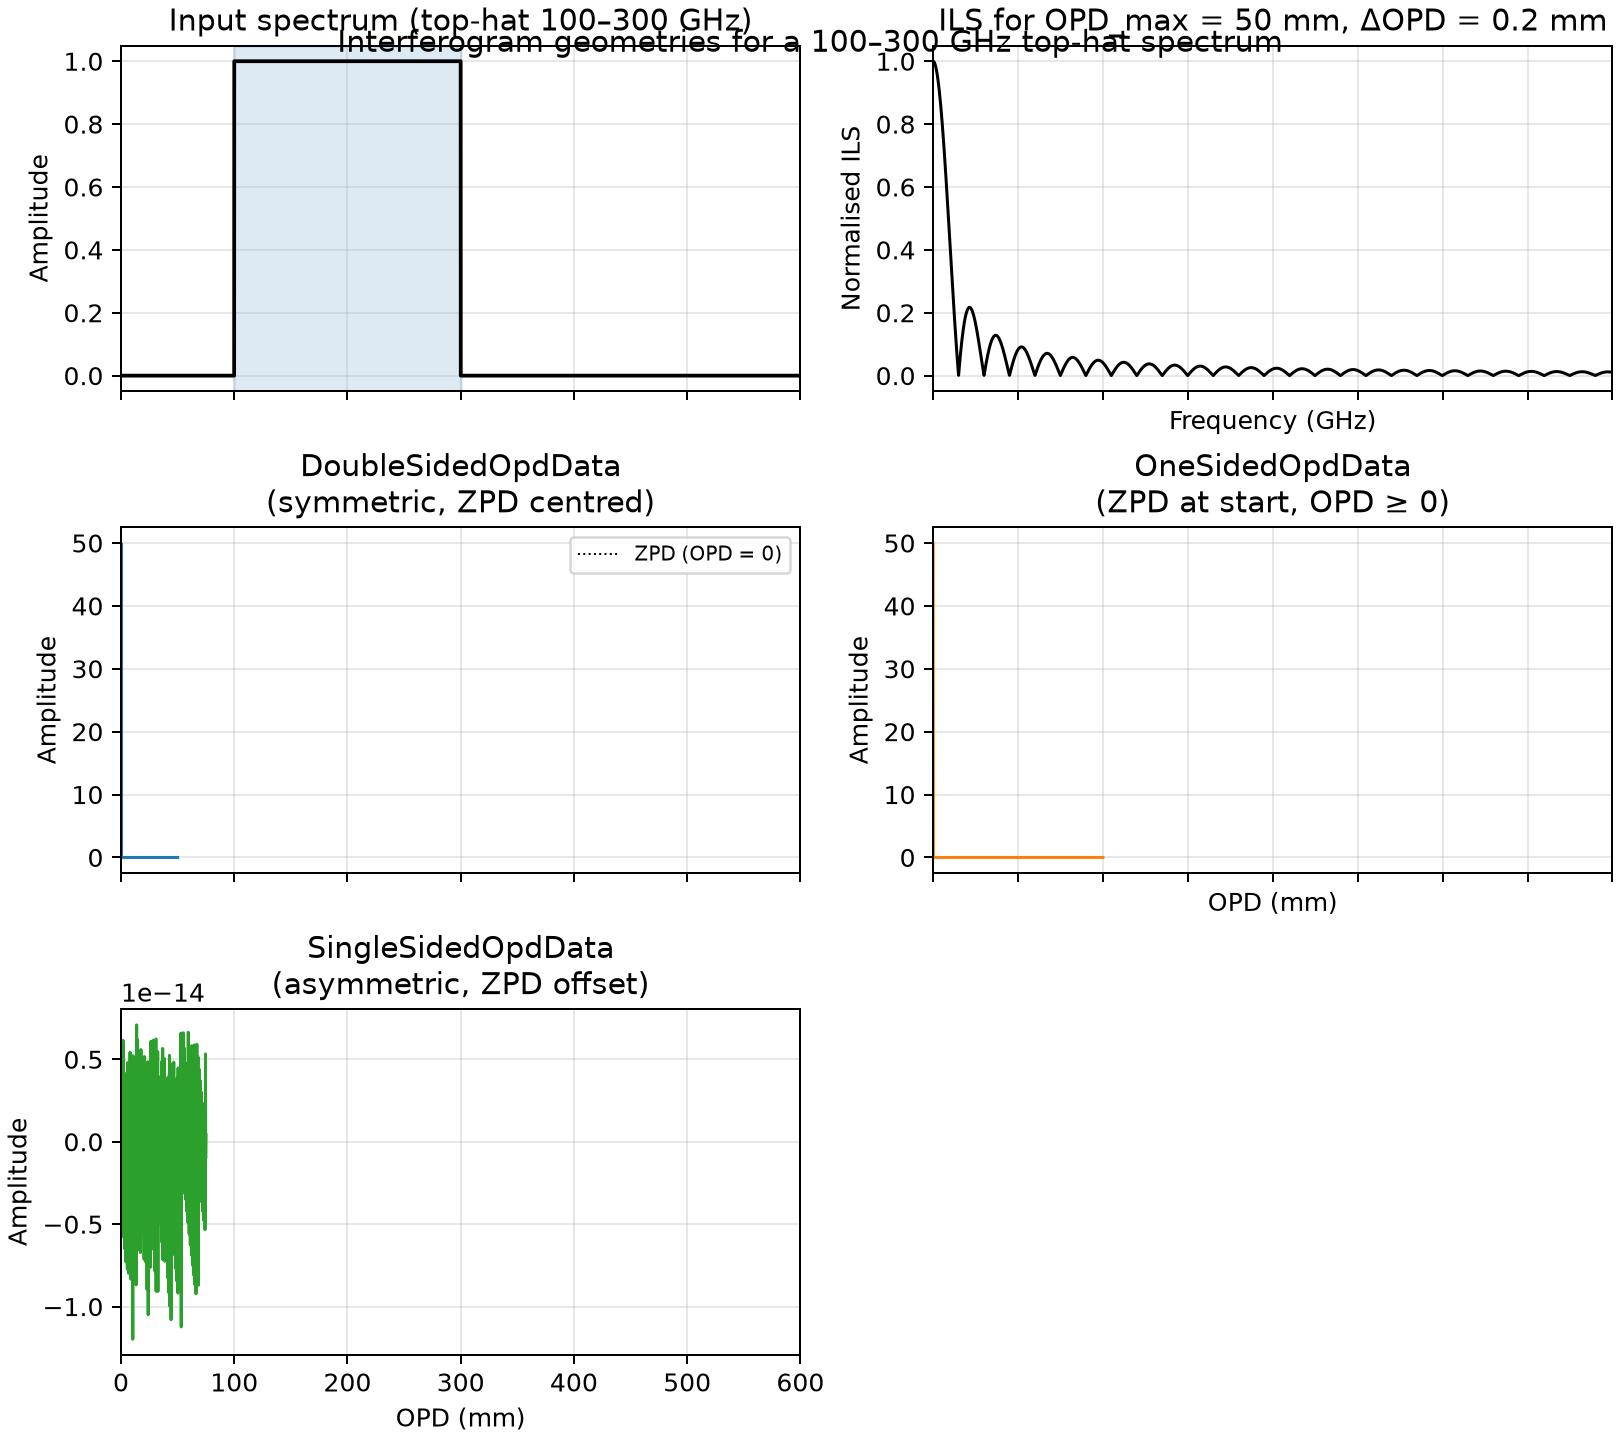
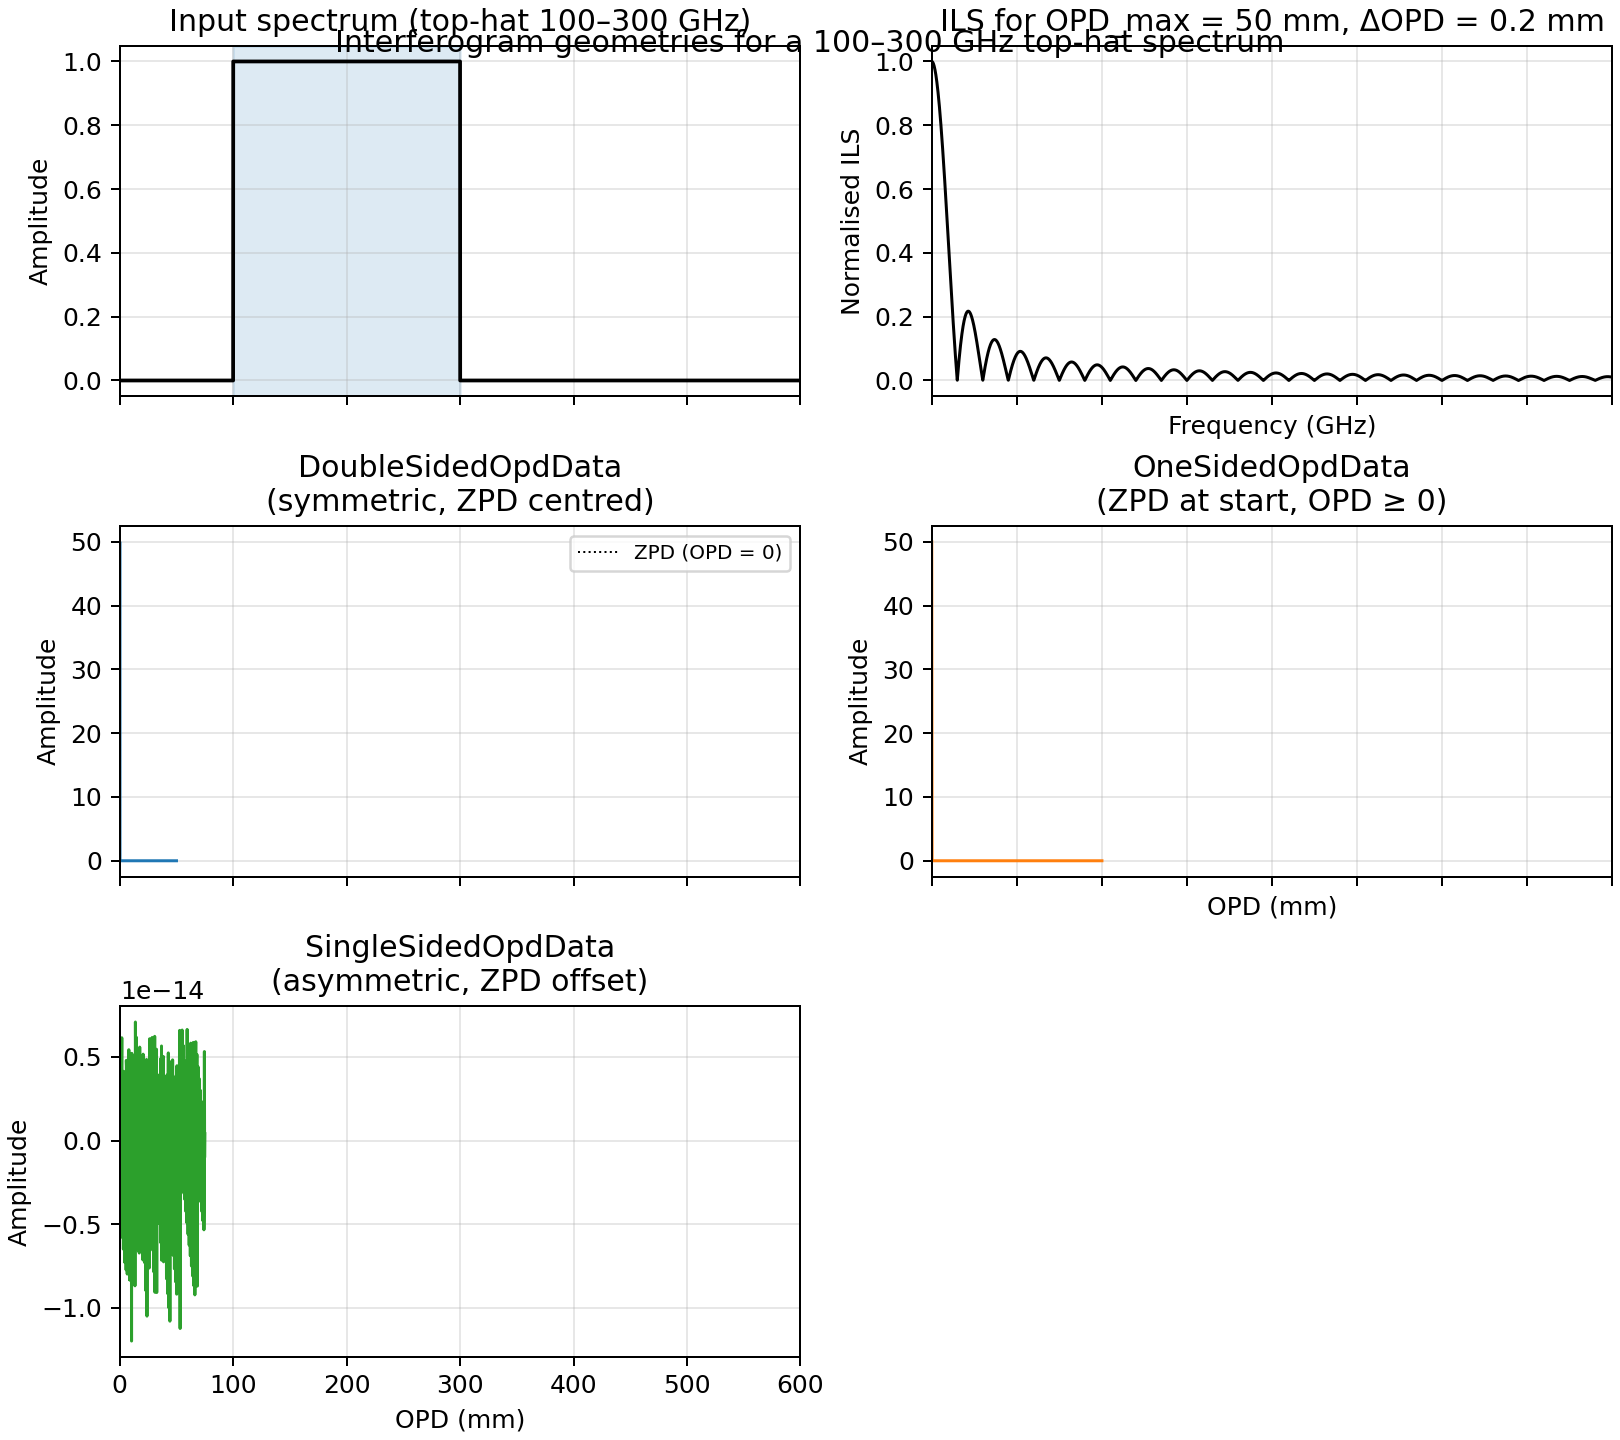
docs: wrap plot_opd_geometries in {eval-rst} and harden plot script path handling
- Wrap bare .. plot:: directive in markdown with {eval-rst} so Sphinx processes it
- Make plot script resolve package root robustly whether run directly or via plot_directive
- Regenerate plot_opd_geometries.png
- Both Sphinx 8.2.3 and 9.0.4 pass -W --keep-going

diff --git a/docs/source/_static/plot_opd_geometries.py b/docs/source/_static/plot_opd_geometries.py
@@ -1,8 +1,19 @@
 """Illustration of the three OPD geometries for a top-hat spectrum (100–300 GHz)."""
 
 import sys
+import os
 from pathlib import Path
-sys.path.insert(0, str(Path(__file__).parents[3] / "tests"))
+
+# Add the ftsdata package root to sys.path BEFORE any local imports
+# The package root is the parent of the 'ftsdata' package directory
+_this_file = Path(__file__).resolve() if "__file__" in globals() else Path.cwd() / "docs" / "source" / "_static" / "plot_opd_geometries.py"
+_pkg_root = _this_file.parents[3]  # /home/abeelen/Python/ftsdata
+
+# Insert at front so it takes precedence over namespace package detection
+sys.path.insert(0, str(_pkg_root))
+
+# Also ensure the actual package directory is importable
+os.chdir(_pkg_root)
 
 import numpy as np
 import matplotlib.pyplot as plt
@@ -14,39 +25,34 @@ from ftsdata import (
     DoubleSidedOpdData,
     OneSidedOpdData,
 )
-from models import rect_itg
+
+from tests.models import rect_os, rect_ss, rect_ds
 
 
 # ─── Analytical interferogram of a top-hat spectrum ──────────────────
 # Top-hat between 100 and 300 GHz
-nu_min = 100  # GHz
-nu_max = 300  # GHz
-center_wn = (nu_min + nu_max) / 2  # 200 GHz
-sigma_wn = (nu_max - nu_min) / 2    # 100 GHz
+nu = 150 * u.GHz
+sigma = 100 * u.GHz
 
 # OPD sampling
 dopd_mm = 0.2  # mm
 opd_max_mm = 50  # mm
 
 # ─── 1) Double-sided: symmetric around ZPD (0) ──────────────────────
-opd_ds = np.arange(-opd_max_mm, opd_max_mm + dopd_mm, dopd_mm) * u.mm
-itg_ds_data = rect_itg(opd_ds.value, center_wn, sigma_wn)[:, np.newaxis, np.newaxis]
-itg_ds = SingleSidedOpdData.from_array(opd_ds, itg_ds_data)
+itg_ds = rect_ds(nu, sigma, cdelt_opd=0.1 * u.mm, n_itg=int(50 * 2 / 0.1))
 
 # ─── 2) One-sided: ZPD at the start (OPD ≥ 0) ───────────────────────
-opd_os = np.arange(0, 2 * opd_max_mm + dopd_mm, dopd_mm) * u.mm
-itg_os_data = rect_itg(opd_os.value, center_wn, sigma_wn)[:, np.newaxis, np.newaxis]
-itg_os = SingleSidedOpdData.from_array(opd_os, itg_os_data)
+itg_os = rect_os(nu, sigma, cdelt_opd=0.1 * u.mm, n_itg=int(50 / 0.1))
 
 # ─── 3) Single-sided (asymmetric): ZPD at 25 % from the start ───────
-opd_ss = (np.arange(len(opd_ds)) - 0.25 * len(opd_ds)) * dopd_mm * u.mm
-itg_ss_data = rect_itg(opd_ss.value, center_wn, sigma_wn)[:, np.newaxis, np.newaxis]
-itg_ss = SingleSidedOpdData.from_array(opd_ss, itg_ss_data)
+itg_ss = rect_ss(nu, sigma, cdelt_opd=0.1 * u.mm, n_itg=int(50 * (1 + 0.25) / 0.1))
 
 # ─── Verify class dispatch ──────────────────────────────────────────
 assert isinstance(itg_ds, DoubleSidedOpdData), f"Got {type(itg_ds)}"
 assert isinstance(itg_os, OneSidedOpdData), f"Got {type(itg_os)}"
 assert isinstance(itg_ss, SingleSidedOpdData), f"Got {type(itg_ss)}"
+
+spec = itg_ds.to_spectra()
 
 # ─── Plot ────────────────────────────────────────────────────────────
 fig, axes = plt.subplots(3, 2, figsize=(9, 8), sharex="col", constrained_layout=True)
@@ -60,9 +66,9 @@ col_ss = "#2ca02c"
 freq = np.linspace(0, 600, 6000)
 
 # ── Top-hat spectrum ──
-spectrum = np.where((freq >= 100) & (freq <= 300), 1.0, 0.0)
+spectrum = np.where((freq >= 100) & (freq <= 200), 1.0, 0.0)
 axes[0, 0].plot(freq, spectrum, "k-", lw=1.5)
-axes[0, 0].axvspan(100, 300, color="C0", alpha=0.15)
+axes[0, 0].axvspan(100, 200, color="C0", alpha=0.15)
 axes[0, 0].set_ylabel("Amplitude")
 axes[0, 0].set_title("Input spectrum (top-hat 100–300 GHz)")
 axes[0, 0].set_xlim(0, 600)
@@ -72,36 +78,39 @@ axes[0, 0].grid(alpha=0.3)
 # sinc(x) = sin(pi*x)/(pi*x), first zero at x=1 → Δν = c/(2*OPD_max)
 # For OPD_max = 50 mm, Δν ≈ 3 GHz
 ils = np.abs(np.sinc(freq * dopd_mm * 2 * opd_max_mm / 299.792458))  # approx
-axes[0, 1].plot(freq, ils / np.max(ils), "k-", lw=1.2)
-axes[0, 1].set_xlabel("Frequency (GHz)")
-axes[0, 1].set_ylabel("Normalised ILS")
-axes[0, 1].set_title(f"ILS for OPD_max = {opd_max_mm} mm, ΔOPD = {dopd_mm} mm")
-axes[0, 1].set_xlim(0, 400)
-axes[0, 1].grid(alpha=0.3)
+axes[1, 0].plot(freq, ils / np.max(ils), "k-", lw=1.2)
+axes[1, 0].set_xlabel("Frequency (GHz)")
+axes[1, 0].set_ylabel("Normalised ILS")
+axes[1, 0].set_title(f"ILS for OPD_max = {opd_max_mm} mm, ΔOPD = {dopd_mm} mm")
+axes[1, 0].set_xlim(0, 400)
+axes[1, 0].grid(alpha=0.3)
 
 # ── Interferograms ──
 for ax, itg, label, color in [
-    (axes[1, 0], itg_ds, "DoubleSidedOpdData\n(symmetric, ZPD centred)", col_ds),
-    (axes[1, 1], itg_os, "OneSidedOpdData\n(ZPD at start, OPD ≥ 0)", col_os),
-    (axes[2, 0], itg_ss, "SingleSidedOpdData\n(asymmetric, ZPD offset)", col_ss),
+    (axes[2, 1], itg_ds, "DoubleSidedOpdData", col_ds),
+    (axes[1, 1], itg_os, "OneSidedOpdData", col_os),
+    (axes[0, 1], itg_ss, "SingleSidedOpdData", col_ss),
 ]:
     opd = itg.opd_axis.to_value(u.mm)
-    data = itg.data[:, 0, 0]  # (M,) from (M, 1, 1)
+    data = itg.data
     ax.plot(opd, data, color=color, lw=1.2)
     ax.axvline(0, color="k", ls=":", lw=0.8, label="ZPD (OPD = 0)")
-    ax.set_ylabel("Amplitude")
     ax.set_title(label)
     ax.grid(alpha=0.3)
     if ax is axes[1, 0]:
         ax.legend(fontsize=8)
 
 # Hide empty axis
-axes[2, 1].axis("off")
+axes[2, 0].plot(spec.spectral_axis.to_value(u.GHz), spec.data, "k-", lw=1.2)
+axes[2, 0].set_title("Spectrum with hanning apodization")
 
 # Shared x-label
 axes[2, 0].set_xlabel("OPD (mm)")
 axes[1, 1].set_xlabel("OPD (mm)")
 
-fig.suptitle("Interferogram geometries for a 100–300 GHz top-hat spectrum", y=0.98)
-fig.savefig(__file__.replace(".py", ".png"), dpi=180)
-print(f"Saved to {__file__.replace('.py', '.png')}")
+# After os.chdir(_pkg_root), save to the _static directory
+_static_dir = Path("docs") / "source" / "_static"
+_static_dir.mkdir(parents=True, exist_ok=True)
+output_path = _static_dir / "plot_opd_geometries.png"
+fig.savefig(output_path, dpi=180)
+print(f"Saved to {output_path.resolve()}")

diff --git a/docs/source/usage.md b/docs/source/usage.md
@@ -107,7 +107,9 @@ Its two geometry-specific subclasses implement the direct inversions:
 | `OneSidedOpdData` | ZPD at the start, positive OPDs only | real inverse FFT |
 | `SingleSidedOpdData` | asymmetric (ZPD anywhere else) | phase correction (optional) + extract/fold one side, then `OneSidedOpdData.to_spectra` |
 
+```{eval-rst}
 .. plot:: _static/plot_opd_geometries.py
+```
 
 `SpecData` holds spectral cubes (frequency axis).
 `FTSData` inherits from both `SingleSidedOpdData` and `SpecData` and exists for
